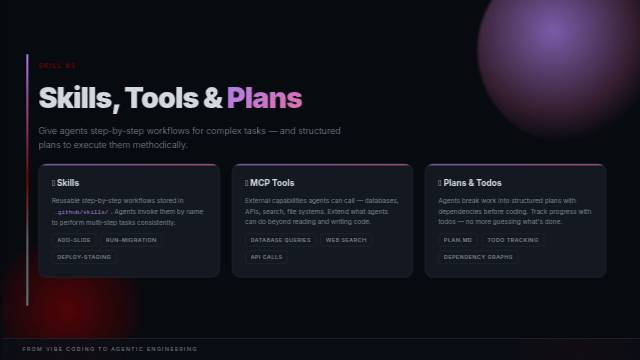
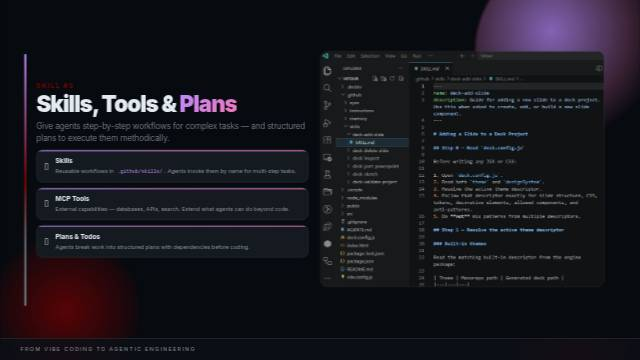
Auto-save from DECKIO — 2026-04-07T08:49

diff --git a/src/slides/SkillsAndPlans.jsx b/src/slides/SkillsAndPlans.jsx
@@ -1,4 +1,5 @@
 import { BottomBar, Slide } from '@deckio/deck-engine'
+import skillsScreenshot from '../data/skills-plans-screenshot.png'
 import styles from './SkillsAndPlans.module.css'
 
 export default function SkillsAndPlans({ index, project }) {
@@ -9,52 +10,43 @@ export default function SkillsAndPlans({ index, project }) {
       <div className={`orb ${styles.orb2}`} />
 
       <div className={`${styles.body} content-frame content-gutter`}>
-        <p className={styles.eyebrow}>Skill #3</p>
-        <h1>
-          Skills, Tools &amp; <span className={styles.highlight}>Plans</span>
-        </h1>
-        <p className={styles.subtitle}>
-          Give agents step-by-step workflows for complex tasks — and structured plans to execute them methodically.
-        </p>
-
         <div className={styles.columns}>
-          <div className={styles.skillCard}>
-            <h3 className={styles.cardLabel}>🔧 Skills</h3>
-            <p className={styles.cardDesc}>
-              Reusable step-by-step workflows stored in <code>.github/skills/</code>.
-              Agents invoke them by name to perform multi-step tasks consistently.
-            </p>
-            <div className={styles.exampleList}>
-              <span className={styles.example}>add-slide</span>
-              <span className={styles.example}>run-migration</span>
-              <span className={styles.example}>deploy-staging</span>
+          <div className={styles.left}>
+            <div>
+              <p className={styles.eyebrow}>Skill #3</p>
+              <h1>
+                Skills, Tools &amp; <span className={styles.highlight}>Plans</span>
+              </h1>
+              <p className={styles.subtitle}>Give agents step-by-step workflows for complex tasks — and structured plans to execute them methodically.</p>
+            </div>
+
+            <div className={styles.cards}>
+              <div className={styles.card}>
+                <div className={styles.cardIcon}>🔧</div>
+                <div>
+                  <h3>Skills</h3>
+                  <p>Reusable workflows in <code>.github/skills/</code>. Agents invoke them by name for multi-step tasks.</p>
+                </div>
+              </div>
+              <div className={styles.card}>
+                <div className={styles.cardIcon}>🛠</div>
+                <div>
+                  <h3>MCP Tools</h3>
+                  <p>External capabilities — databases, APIs, search. Extend what agents can do beyond code.</p>
+                </div>
+              </div>
+              <div className={styles.card}>
+                <div className={styles.cardIcon}>📋</div>
+                <div>
+                  <h3>Plans &amp; Todos</h3>
+                  <p>Agents break work into structured plans with dependencies before coding.</p>
+                </div>
+              </div>
             </div>
           </div>
 
-          <div className={styles.skillCard}>
-            <h3 className={styles.cardLabel}>🛠 MCP Tools</h3>
-            <p className={styles.cardDesc}>
-              External capabilities agents can call — databases, APIs, search, file systems.
-              Extend what agents can do beyond reading and writing code.
-            </p>
-            <div className={styles.exampleList}>
-              <span className={styles.example}>database queries</span>
-              <span className={styles.example}>web search</span>
-              <span className={styles.example}>API calls</span>
-            </div>
-          </div>
-
-          <div className={styles.skillCard}>
-            <h3 className={styles.cardLabel}>📋 Plans &amp; Todos</h3>
-            <p className={styles.cardDesc}>
-              Agents break work into structured plans with dependencies before coding.
-              Track progress with todos — no more guessing what's done.
-            </p>
-            <div className={styles.exampleList}>
-              <span className={styles.example}>plan.md</span>
-              <span className={styles.example}>todo tracking</span>
-              <span className={styles.example}>dependency graphs</span>
-            </div>
+          <div className={styles.screenshotWrapper}>
+            <img src={skillsScreenshot} alt="Skills and Plans in VS Code" className={styles.screenshot} />
           </div>
         </div>
       </div>

diff --git a/src/slides/SkillsAndPlans.module.css b/src/slides/SkillsAndPlans.module.css
@@ -34,7 +34,8 @@
   z-index: 10;
   display: flex;
   flex-direction: column;
-  gap: 22px;
+  flex: 1;
+  min-height: 0;
 }
 
 .eyebrow {
@@ -43,10 +44,11 @@
   text-transform: uppercase;
   letter-spacing: 2.5px;
   color: var(--accent);
+  margin-bottom: 4px;
 }
 
 .body h1 {
-  font-size: clamp(36px, 4.5vw, 64px);
+  font-size: clamp(30px, 3.5vw, 48px);
   font-weight: 900;
   line-height: 1.08;
   letter-spacing: -2px;
@@ -60,32 +62,48 @@
 }
 
 .subtitle {
-  font-size: clamp(15px, 1.5vw, 18px);
+  font-size: clamp(13px, 1.3vw, 16px);
   font-weight: 300;
   color: var(--muted-foreground);
-  line-height: 1.6;
-  max-width: 640px;
+  line-height: 1.5;
+  margin-top: 6px;
 }
 
 .columns {
   display: grid;
-  grid-template-columns: repeat(3, 1fr);
+  grid-template-columns: 1fr 50%;
   gap: 24px;
+  flex: 1;
+  min-height: 0;
 }
 
-.skillCard {
+.left {
+  display: flex;
+  flex-direction: column;
+  gap: 12px;
+  min-height: 0;
+  justify-content: center;
+}
+
+.cards {
+  display: grid;
+  grid-template-columns: 1fr;
+  gap: 10px;
+}
+
+.card {
   position: relative;
   overflow: hidden;
   background: var(--secondary);
   border: 1px solid var(--border);
-  border-radius: 16px;
-  padding: 26px;
+  border-radius: 12px;
+  padding: 12px 16px;
   display: flex;
-  flex-direction: column;
-  gap: 12px;
+  align-items: center;
+  gap: 14px;
 }
 
-.skillCard::before {
+.card::before {
   content: '';
   position: absolute;
   top: 0;
@@ -96,41 +114,46 @@
   opacity: 0.6;
 }
 
-.cardLabel {
-  font-size: 17px;
+.cardIcon {
+  font-size: 20px;
+  flex-shrink: 0;
+}
+
+.card h3 {
+  font-size: 13px;
   font-weight: 700;
   color: var(--foreground);
+  margin-bottom: 4px;
 }
 
-.cardDesc {
-  font-size: 13px;
+.card p {
+  font-size: 11px;
   color: var(--muted-foreground);
-  line-height: 1.6;
+  line-height: 1.45;
 }
 
-.cardDesc code {
-  font-size: 12px;
+.card code {
+  font-size: 10px;
   background: var(--surface-overlay);
-  padding: 1px 5px;
-  border-radius: 4px;
+  padding: 1px 4px;
+  border-radius: 3px;
   color: var(--purple);
 }
 
-.exampleList {
-  display: flex;
-  flex-wrap: wrap;
-  gap: 8px;
-  margin-top: auto;
+.screenshotWrapper {
+  border: 1px solid var(--border);
+  border-radius: 14px;
+  overflow: hidden;
+  min-height: 0;
+  max-height: 85%;
+  align-self: center;
 }
 
-.example {
-  font-size: 11px;
-  font-weight: 600;
-  text-transform: uppercase;
-  letter-spacing: 0.8px;
-  padding: 4px 10px;
-  background: var(--surface-overlay);
-  border: 1px solid var(--border);
-  border-radius: 6px;
-  color: var(--muted-foreground);
+.screenshot {
+  display: block;
+  width: 100%;
+  height: 100%;
+  object-fit: cover;
+  object-position: top left;
+  max-height: 100%;
 }
